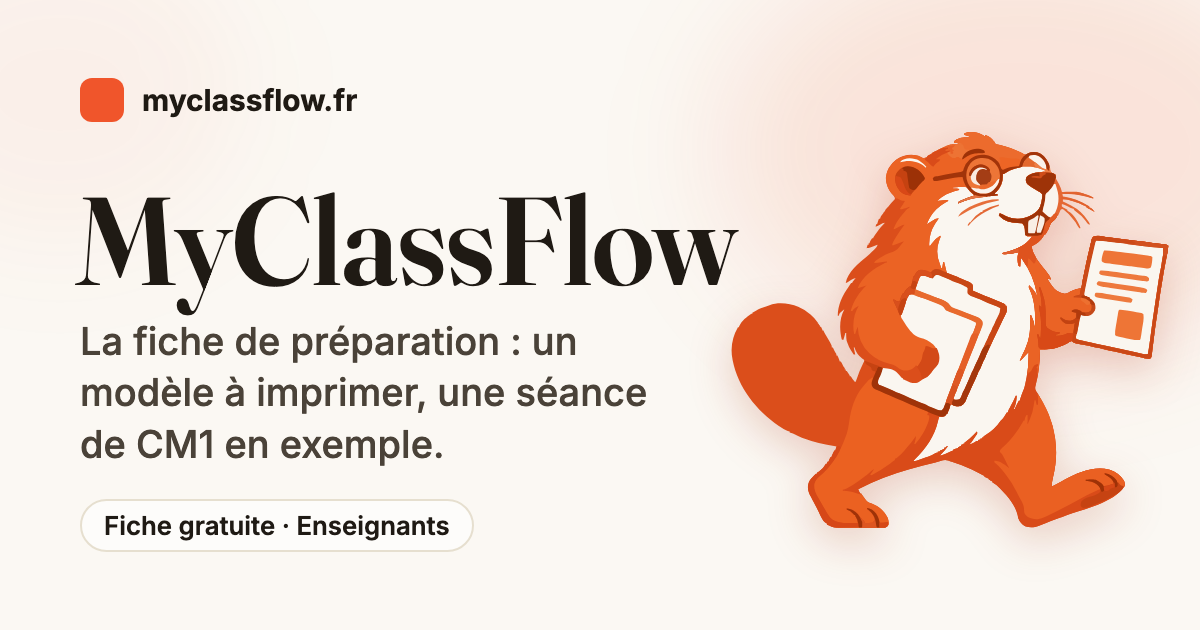
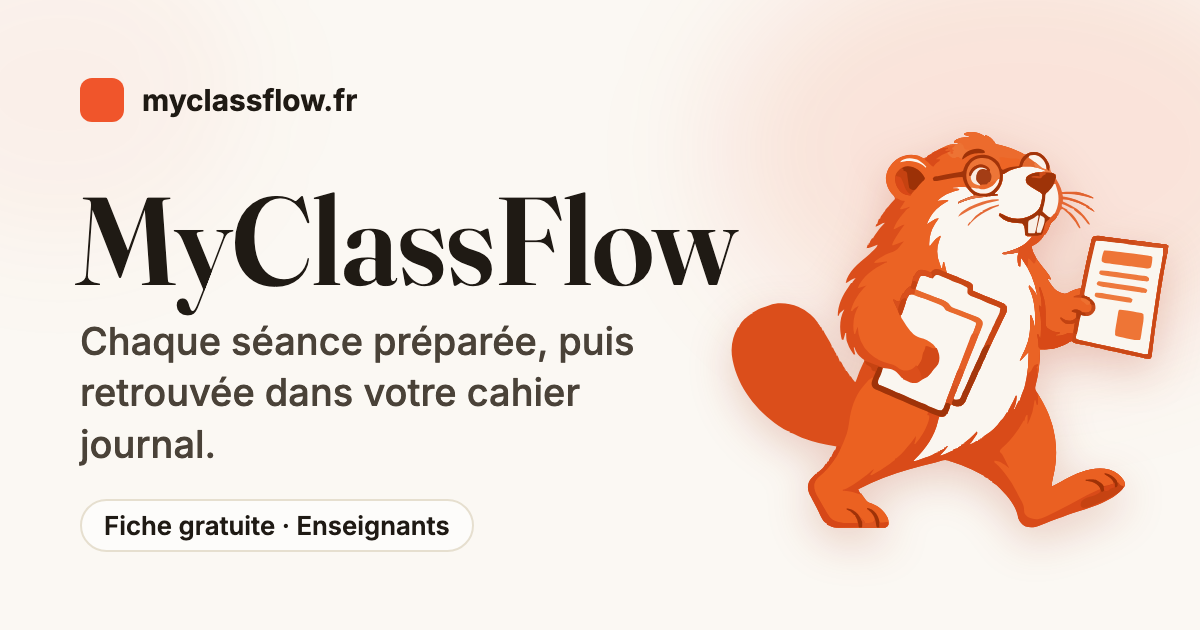
référencement : titre, accroche, carte de partage et intertitre de la page Fonctionnalités reformulés (contrôle de ressemblance)
Refs ClassFlowBooster/MCF-Pilotage#53

Claude-Session: https://claude.ai/code/session_01NxaFfvQPTKZZgYzNytfswk

Changed region(s): [[0.0617, 0.6032, 0.555, 0.754], [0.0617, 0.5127, 0.5242, 0.573]]

diff --git a/enseignants/fonctionnalites/fiche-de-preparation/index.html b/enseignants/fonctionnalites/fiche-de-preparation/index.html
@@ -3,13 +3,13 @@
 <head>
 <meta charset="utf-8" />
 <meta name="viewport" content="width=device-width, initial-scale=1" />
-<title>Fiche de préparation : un modèle, un exemple — MyClassFlow</title>
+<title>Fiche de préparation, séance par séance — MyClassFlow</title>
 <meta name="description" content="Ce que contient une fiche de préparation, une séance complète de CM1 en exemple, un modèle gratuit à télécharger, et comment MyClassFlow la relie au cahier journal." />
 <link rel="canonical" href="https://myclassflow.fr/enseignants/fonctionnalites/fiche-de-preparation/" />
 <link rel="icon" type="image/png" sizes="32x32" href="/assets/img/favicon-32.png" />
 <link rel="icon" type="image/png" sizes="16x16" href="/assets/img/favicon-16.png" />
 <link rel="apple-touch-icon" sizes="180x180" href="/assets/img/apple-touch-icon.png" />
-<meta property="og:title" content="Fiche de préparation : un modèle, un exemple — MyClassFlow" />
+<meta property="og:title" content="Fiche de préparation, séance par séance — MyClassFlow" />
 <meta property="og:description" content="Ce que contient une fiche de préparation, une séance complète de CM1 en exemple, un modèle gratuit à télécharger, et comment MyClassFlow la relie au cahier journal." />
 <meta property="og:url" content="https://myclassflow.fr/enseignants/fonctionnalites/fiche-de-preparation/" />
 <meta property="og:type" content="website" />
@@ -17,7 +17,7 @@
 <meta property="og:image" content="https://myclassflow.fr/assets/img/og-fiche-de-preparation.png" />
 <meta property="og:image:width" content="1200" />
 <meta property="og:image:height" content="630" />
-<meta property="og:image:alt" content="MyClassFlow, fiche gratuite pour les enseignants : le castor professeur et l'accroche « La fiche de préparation : un modèle à imprimer, une séance de CM1 en exemple »." />
+<meta property="og:image:alt" content="MyClassFlow, fiche gratuite pour les enseignants : le castor professeur et l'accroche « Chaque séance préparée, puis retrouvée dans votre cahier journal »." />
 <meta name="twitter:card" content="summary_large_image" />
 <script type="application/ld+json">{"@context":"https://schema.org","@graph":[{"@type":"BreadcrumbList","itemListElement":[{"@type":"ListItem","position":1,"name":"Enseignants","item":"https://myclassflow.fr/enseignants/"},{"@type":"ListItem","position":2,"name":"Fonctionnalités","item":"https://myclassflow.fr/enseignants/fonctionnalites/"},{"@type":"ListItem","position":3,"name":"Fiche de préparation","item":"https://myclassflow.fr/enseignants/fonctionnalites/fiche-de-preparation/"}]},{"@type":"SoftwareApplication","name":"MyClassFlow","url":"https://app.myclassflow.fr","applicationCategory":"EducationalApplication","operatingSystem":"Web, Windows, macOS, Android, iOS","inLanguage":"fr","publisher":{"@id":"https://myclassflow.fr/#organisation"},"offers":[{"@type":"Offer","name":"Gratuit","price":"0.00","priceCurrency":"EUR","description":"Gestion de classe et 3 adaptations offertes."}]},{"@type":"FAQPage","mainEntity":[{"@type":"Question","name":"Une fiche de préparation par séance, ou une seule pour toute la séquence ?","acceptedAnswer":{"@type":"Answer","text":"Les deux se complètent. La fiche de séquence présente tout un apprentissage sur plusieurs séances : l'objectif final, la liste des séances et l'évaluation. La fiche de préparation détaille une seule de ces séances, phase par phase."}},{"@type":"Question","name":"Doit-on montrer ses fiches de préparation lors d'une inspection ?","acceptedAnswer":{"@type":"Answer","text":"Elles peuvent vous être demandées : lors d'une visite, l'inspecteur ou le conseiller pédagogique peut regarder vos préparations et votre cahier journal. Aucun texte n'impose en revanche de modèle, c'est la clarté qui compte."}},{"@type":"Question","name":"Que mettre dans une fiche de préparation pour un remplaçant ?","acceptedAnswer":{"@type":"Answer","text":"L'objectif, le matériel et où le trouver, le déroulement minuté, et ce que les élèves ont fait à la séance précédente. Une fiche lisible par quelqu'un d'autre est aussi plus facile à reprendre pour vous l'année suivante."}},{"@type":"Question","name":"Où noter la différenciation dans une fiche de préparation ?","acceptedAnswer":{"@type":"Answer","text":"Dans une rubrique à part, sous le déroulement. Prévoyez, pour le même objectif, un support plus lisible (texte agrandi, lignes espacées, consigne découpée en étapes), une aide matérielle et un prolongement. Dans MyClassFlow, l'abonnement adapte vos supports en quelques secondes selon les critères pédagogiques que vous cochez."}},{"@type":"Question","name":"Que faire de ses fiches de préparation l'année suivante ?","acceptedAnswer":{"@type":"Answer","text":"Les reprendre en notant ce que le bilan a appris, plutôt que tout réécrire. Dans MyClassFlow, vos fiches restent dans votre banque, rangées en dossiers : vous les dupliquez et les ajustez."}},{"@type":"Question","name":"Les fiches de préparation sont-elles gratuites dans MyClassFlow ?","acceptedAnswer":{"@type":"Answer","text":"Oui, comme le cahier journal et l'emploi du temps. Le compte gratuit ne demande pas de carte bancaire."}}]}]}</script>
 <link rel="preconnect" href="https://fonts.googleapis.com" />

diff --git a/enseignants/fonctionnalites/index.html b/enseignants/fonctionnalites/index.html
@@ -72,11 +72,11 @@
   <section class="guides" aria-labelledby="guides">
     <h2 id="guides">Comprendre chaque outil</h2>
     <div class="guides-liste">
-      <a class="guide" href="/enseignants/fonctionnalites/fiche-de-preparation/"><span class="tg free">Gratuit</span><b>Fiche de préparation</b><span class="t">Ses rubriques, une séance de CM1 rédigée en entier et un modèle vierge à imprimer.</span></a>
+      <a class="guide" href="/enseignants/fonctionnalites/fiche-de-preparation/"><span class="tg free">Gratuit</span><b>Fiche de préparation</b><span class="t">Une séance de CM1 détaillée phase par phase, puis copiée dans le cahier journal.</span></a>
     </div>
   </section>
 
-  <h2 class="theme-titre">Tous les outils, par usage</h2>
+  <h2 class="theme-titre">Par besoin : adapter, préparer, suivre</h2>
   <div class="filters" id="flt" role="group" aria-label="Filtrer les fonctionnalités"><button type="button" class="on" aria-pressed="true" data-f="all">Tout</button><button type="button" aria-pressed="false" data-f="free">Gratuit</button><button type="button" aria-pressed="false" data-f="pay">Abonnement</button></div>
 
   <div class="theme"><h3>Adapter pour chaque élève</h3><p class="s">L'IA fait le travail d'adaptation, vous validez.</p>

diff --git a/outils/partage/gabarit.html b/outils/partage/gabarit.html
@@ -30,7 +30,7 @@ const PAGES = {
   "ecoles": { acc:"L'école inclusive, outillée pour toute l'équipe.", tag:"Espace Écoles", castors:[["direction",{x:690,y:70,h:520}]] },
   "enseignants": { acc:"Adaptez chaque support aux besoins de chaque élève, en un clic.", tag:"Espace Enseignants", castors:[["professeur",{x:690,y:70,h:520}]] },
   "parents-enfants": { acc:"Les devoirs de votre enfant, adaptés en une photo.", tag:"Espace Parents / Enfants", castors:[["eleve",{x:690,y:70,h:520}]] },
-  "fiche-de-preparation": { acc:"La fiche de préparation : un modèle à imprimer, une séance de CM1 en exemple.", tag:"Fiche gratuite · Enseignants", castors:[["professeur",{x:690,y:70,h:520}]] }
+  "fiche-de-preparation": { acc:"Chaque séance préparée, puis retrouvée dans votre cahier journal.", tag:"Fiche gratuite · Enseignants", castors:[["professeur",{x:690,y:70,h:520}]] }
 };
 const p = PAGES[new URLSearchParams(location.search).get("page")];
 nom.textContent = new URLSearchParams(location.search).get("nom") || "MyClassFlow"; acc.textContent = p.acc; tag.textContent = p.tag;
